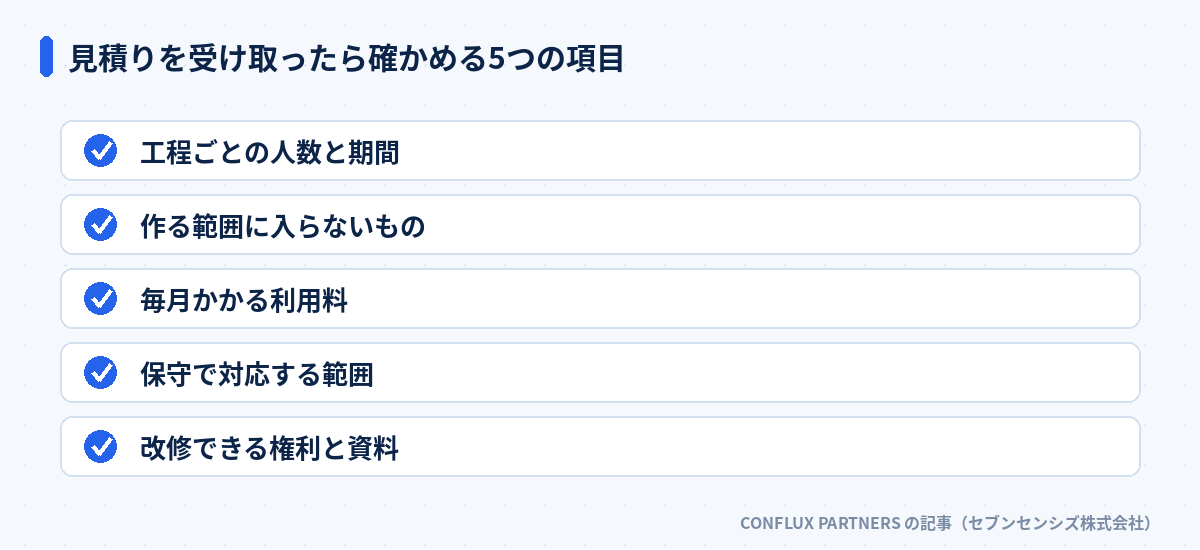
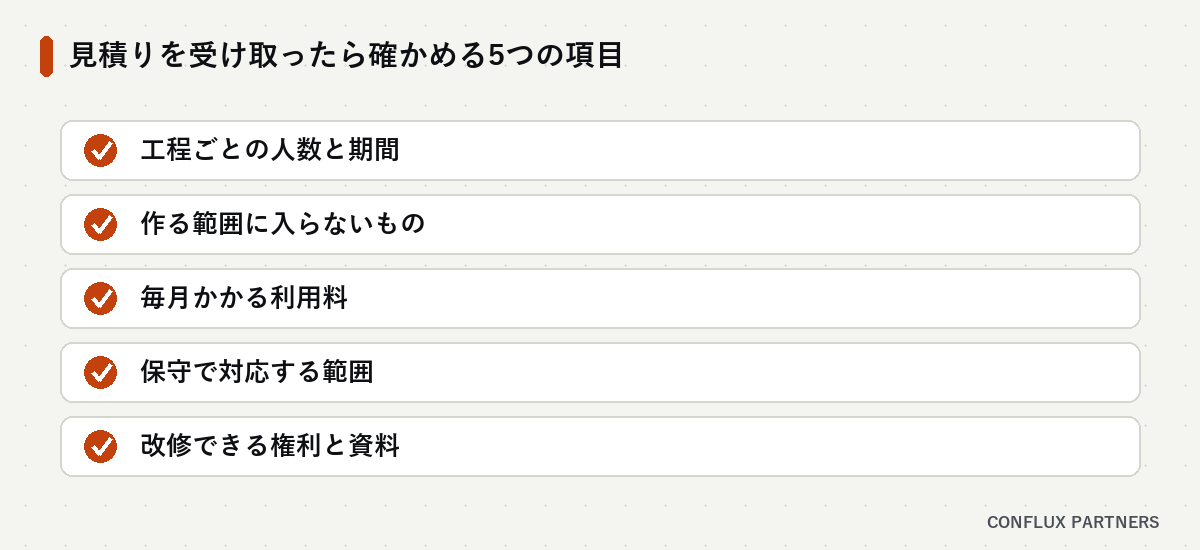
図の名義と色をサイトごとにする（お客様の図に運用会社の名前を入れない）
CONFLUX の図の右下に「CONFLUX PARTNERS の記事（セブンセンシズ株式会社）」と運用会社の名前が入り、
色も AI集客ラボの青だったため。お客様の社は data/clients/<id>/company.json の社名だけにし、
色は sites/<id>.json の diagram_colors で替える（無ければ今の色）。監修待ちの CONFLUX の記事の図2枚を描き直した。

diff --git a/scripts/make_diagram.py b/scripts/make_diagram.py
@@ -15,6 +15,7 @@
 
 出力: site/images/<slug>/<ファイル名>.png
 """
+import json
 import re
 import sys
 from pathlib import Path
@@ -28,8 +29,8 @@ import sites as sites_mod  # noqa: E402
 ROOT = Path(__file__).resolve().parent.parent
 
 
-def brand_for_slug(slug):
-    """記事のカテゴリからサイトを判定し、画像フッターに出す運営名を返す"""
+def site_for_slug(slug):
+    """記事のカテゴリからサイトの設定を返す（どのサイトでもなければ None）"""
     p = ROOT / "articles" / f"{slug}.md"
     category = None
     if p.exists():
@@ -38,8 +39,27 @@ def brand_for_slug(slug):
             category = (yaml.safe_load(m.group(1)) or {}).get("category")
     for cfg in sites_mod.load_all().values():
         if category in cfg.get("categories", {}):
-            return cfg["name"]
-    return "AI集客ラボ"
+            return cfg
+    return None
+
+
+def credit_text(cfg):
+    """図の右下の名義。お客様の社はその社の名前だけにする（data/clients/<id>/company.json）。
+    以前は「CONFLUX PARTNERS の記事（セブンセンシズ株式会社）」と運用会社の名前まで入っていた（2026-10-08）"""
+    if not cfg:
+        return "AI集客ラボ（セブンセンシズ株式会社）"
+    if sites_mod.is_client(cfg["id"]):
+        try:
+            name = json.loads((ROOT / "data" / "clients" / cfg["id"] / "company.json").read_text(encoding="utf-8")).get("name")
+        except (OSError, ValueError):
+            name = ""
+        return name or cfg.get("name", "")
+    return f"{cfg['name']}（セブンセンシズ株式会社）"
+
+
+def brand_for_slug(slug):
+    """記事のカテゴリからサイトを判定し、画像フッターに出す名義を返す"""
+    return credit_text(site_for_slug(slug))
 
 
 W = 1200
@@ -50,6 +70,18 @@ LINE = (211, 224, 240)
 BG = (245, 248, 252)
 RED = (185, 28, 28)
 REDBG = (254, 242, 242)
+# 色の役割。サイトの設定（sites/<id>.json の diagram_colors に "#RRGGBB"）で替えられる。無い社は AI集客ラボの色のまま
+# （お客様の記事の図が AI集客ラボの青になっていた。2026-10-08）
+PALETTE = {"ink": NAVY, "accent": BLUE, "soft": SKY, "line": LINE, "bg": BG, "ng": RED,
+           "dot": (220, 230, 244), "shadow": (225, 233, 245), "muted": (122, 140, 165)}
+
+
+def palette_for(cfg):
+    pal = dict(PALETTE)
+    for k, v in ((cfg or {}).get("diagram_colors") or {}).items():
+        if k in pal and isinstance(v, str) and re.fullmatch(r"#[0-9A-Fa-f]{6}", v):
+            pal[k] = tuple(int(v[i:i + 2], 16) for i in (1, 3, 5))
+    return pal
 
 FONT_PATHS = [
     r"C:\Windows\Fonts\YuGothB.ttc", r"C:\Windows\Fonts\meiryob.ttc",
@@ -105,76 +137,80 @@ def save_png(img, slug, name):
     print(f"saved: {out} ({out.stat().st_size // 1024}KB)")
 
 
-def canvas(h, title):
-    img = Image.new("RGB", (W, h), BG)
+def canvas(h, title, pal=PALETTE):
+    img = Image.new("RGB", (W, h), pal["bg"])
     d = ImageDraw.Draw(img)
     for gy in range(24, h, 40):
         for gx in range(24, W, 40):
-            d.ellipse([gx, gy, gx + 2, gy + 2], fill=(220, 230, 244))
-    d.rounded_rectangle([40, 36, 52, 76], radius=6, fill=BLUE)
-    d.text((68, 56), title, font=fit_font(d, title, W - 148, base=30, minimum=20), fill=NAVY, anchor="lm")
+            d.ellipse([gx, gy, gx + 2, gy + 2], fill=pal["dot"])
+    d.rounded_rectangle([40, 36, 52, 76], radius=6, fill=pal["accent"])
+    d.text((68, 56), title, font=fit_font(d, title, W - 148, base=30, minimum=20), fill=pal["ink"], anchor="lm")
     return img, d
 
 
-def credit(d, h, brand="AI集客ラボ"):
-    d.text((W - 40, h - 28), f"{brand}（セブンセンシズ株式会社）", font=font(16), fill=(122, 140, 165), anchor="rm")
+def credit(d, h, text="AI集客ラボ（セブンセンシズ株式会社）", pal=PALETTE):
+    d.text((W - 40, h - 28), text, font=font(16), fill=pal["muted"], anchor="rm")
 
 
 def draw_flow(slug, name, title, steps):
-    brand = brand_for_slug(slug)
+    cfg = site_for_slug(slug)
+    pal = palette_for(cfg)
     n = len(steps)
     if not 2 <= n <= 5:
         raise SystemExit("フロー型のステップは2〜5個で指定してください")
     H = 400
-    img, d = canvas(H, title)
+    img, d = canvas(H, title, pal)
     margin, gap, top, bh = 60, 34, 130, 200
     bw = (W - margin * 2 - gap * (n - 1)) // n
     nf = font(22)
     for i, step in enumerate(steps):
         x = margin + i * (bw + gap)
-        d.rounded_rectangle([x + 4, top + 8, x + bw + 4, top + bh + 8], radius=16, fill=(225, 233, 245))
-        d.rounded_rectangle([x, top, x + bw, top + bh], radius=16, fill=(255, 255, 255), outline=LINE, width=2)
-        d.rounded_rectangle([x, top, x + bw, top + 8], radius=4, fill=BLUE)
-        d.ellipse([x + bw / 2 - 22, top + 26, x + bw / 2 + 22, top + 70], fill=SKY)
-        d.text((x + bw / 2, top + 48), str(i + 1), font=nf, fill=BLUE, anchor="mm")
+        d.rounded_rectangle([x + 4, top + 8, x + bw + 4, top + bh + 8], radius=16, fill=pal["shadow"])
+        d.rounded_rectangle([x, top, x + bw, top + bh], radius=16, fill=(255, 255, 255), outline=pal["line"], width=2)
+        d.rounded_rectangle([x, top, x + bw, top + 8], radius=4, fill=pal["accent"])
+        d.ellipse([x + bw / 2 - 22, top + 26, x + bw / 2 + 22, top + 70], fill=pal["soft"])
+        d.text((x + bw / 2, top + 48), str(i + 1), font=nf, fill=pal["accent"], anchor="mm")
         lines, tf = flow_lines(d, step, bw - 28)
         lh = 38 if len(lines) <= 2 else min(38, int(tf.size * 1.45))   # 折り返した分だけ詰める
         y0 = top + 118 - (len(lines) - 1) * lh / 2
         for j, line in enumerate(lines):
-            d.text((x + bw / 2, y0 + j * lh), line, font=tf, fill=NAVY, anchor="mm")
+            d.text((x + bw / 2, y0 + j * lh), line, font=tf, fill=pal["ink"], anchor="mm")
         if i < n - 1:
             ax = x + bw + gap / 2
-            d.polygon([(ax - 9, top + bh / 2 - 12), (ax + 9, top + bh / 2), (ax - 9, top + bh / 2 + 12)], fill=BLUE)
-    credit(d, H, brand)
+            d.polygon([(ax - 9, top + bh / 2 - 12), (ax + 9, top + bh / 2), (ax - 9, top + bh / 2 + 12)],
+                      fill=pal["accent"])
+    credit(d, H, credit_text(cfg), pal)
     save_png(img, slug, name)
 
 
 def draw_list(slug, name, title, items):
-    brand = brand_for_slug(slug)
+    cfg = site_for_slug(slug)
+    pal = palette_for(cfg)
     n = len(items)
     if not 3 <= n <= 6:
         raise SystemExit("チェックリスト型の項目は3〜6個で指定してください")
     row_h, top = 74, 120
     H = top + n * row_h + 60
-    img, d = canvas(H, title)
+    img, d = canvas(H, title, pal)
     # 「ラベル|説明」の「|」で段を分けるのは flow・vs だけ。list では「|」がそのまま
     # 描かれていた（2026-09-23 sogyo-shien-hojokin-kojinjigyonushi で4項目すべて）
     items = [str(it).replace("|", "：") for it in items]
     for i, item in enumerate(items):
         y = top + i * row_h
         d.rounded_rectangle([60, y, W - 60, y + row_h - 14], radius=12,
-                            fill=(255, 255, 255), outline=LINE, width=2)
-        d.ellipse([84, y + 14, 84 + 32, y + 46], fill=BLUE)
+                            fill=(255, 255, 255), outline=pal["line"], width=2)
+        d.ellipse([84, y + 14, 84 + 32, y + 46], fill=pal["accent"])
         d.line([92, y + 30, 99, y + 38], fill=(255, 255, 255), width=4)
         d.line([99, y + 38, 111, y + 22], fill=(255, 255, 255), width=4)
         d.text((140, y + (row_h - 14) / 2), item,
-               font=fit_font(d, item, W - 220, base=26), fill=NAVY, anchor="lm")
-    credit(d, H, brand)
+               font=fit_font(d, item, W - 220, base=26), fill=pal["ink"], anchor="lm")
+    credit(d, H, credit_text(cfg), pal)
     save_png(img, slug, name)
 
 
 def draw_vs(slug, name, title, left, right):
-    brand = brand_for_slug(slug)
+    cfg = site_for_slug(slug)
+    pal = palette_for(cfg)
     lparts, rparts = left.split("|"), right.split("|")
     lhead, litems = lparts[0], lparts[1:]
     rhead, ritems = rparts[0], rparts[1:]
@@ -183,14 +219,13 @@ def draw_vs(slug, name, title, left, right):
         raise SystemExit("比較型は「見出し|行1|行2...」の形式で指定してください")
     row_h, top, head_h = 56, 120, 64
     H = top + head_h + rows * row_h + 70
-    img, d = canvas(H, title)
+    img, d = canvas(H, title, pal)
     gap = 24
     cw = (W - 120 - gap) // 2
-    for ci, (head, items, accent, bgc) in enumerate(
-            [(lhead, litems, RED, REDBG), (rhead, ritems, BLUE, SKY)]):
+    for ci, (head, items, accent) in enumerate([(lhead, litems, pal["ng"]), (rhead, ritems, pal["accent"])]):
         x = 60 + ci * (cw + gap)
         d.rounded_rectangle([x, top, x + cw, top + head_h + rows * row_h + 16], radius=14,
-                            fill=(255, 255, 255), outline=LINE, width=2)
+                            fill=(255, 255, 255), outline=pal["line"], width=2)
         d.rounded_rectangle([x, top, x + cw, top + head_h], radius=14, fill=accent)
         d.rectangle([x, top + head_h - 14, x + cw, top + head_h], fill=accent)
         d.text((x + cw / 2, top + head_h / 2), head,
@@ -200,8 +235,8 @@ def draw_vs(slug, name, title, left, right):
             y = top + head_h + ri * row_h
             d.text((x + 30, y + row_h / 2 + 4), mark, font=font(22), fill=accent, anchor="lm")
             d.text((x + 64, y + row_h / 2 + 4), item,
-                   font=fit_font(d, item, cw - 92, base=22), fill=NAVY, anchor="lm")
-    credit(d, H, brand)
+                   font=fit_font(d, item, cw - 92, base=22), fill=pal["ink"], anchor="lm")
+    credit(d, H, credit_text(cfg), pal)
     save_png(img, slug, name)
 
 

diff --git a/tests/gates_history_f.py b/tests/gates_history_f.py
@@ -146,8 +146,8 @@ def test_hist_lessons_list_diagram_draws_no_pipe():
     rec = {}
     real_canvas, real_save = MD.canvas, MD.save_png
 
-    def canvas(h, title):
-        img, d = real_canvas(h, title)
+    def canvas(h, title, *rest):
+        img, d = real_canvas(h, title, *rest)
         rec["d"] = _Rec(d)
         return img, rec["d"]
     try:
